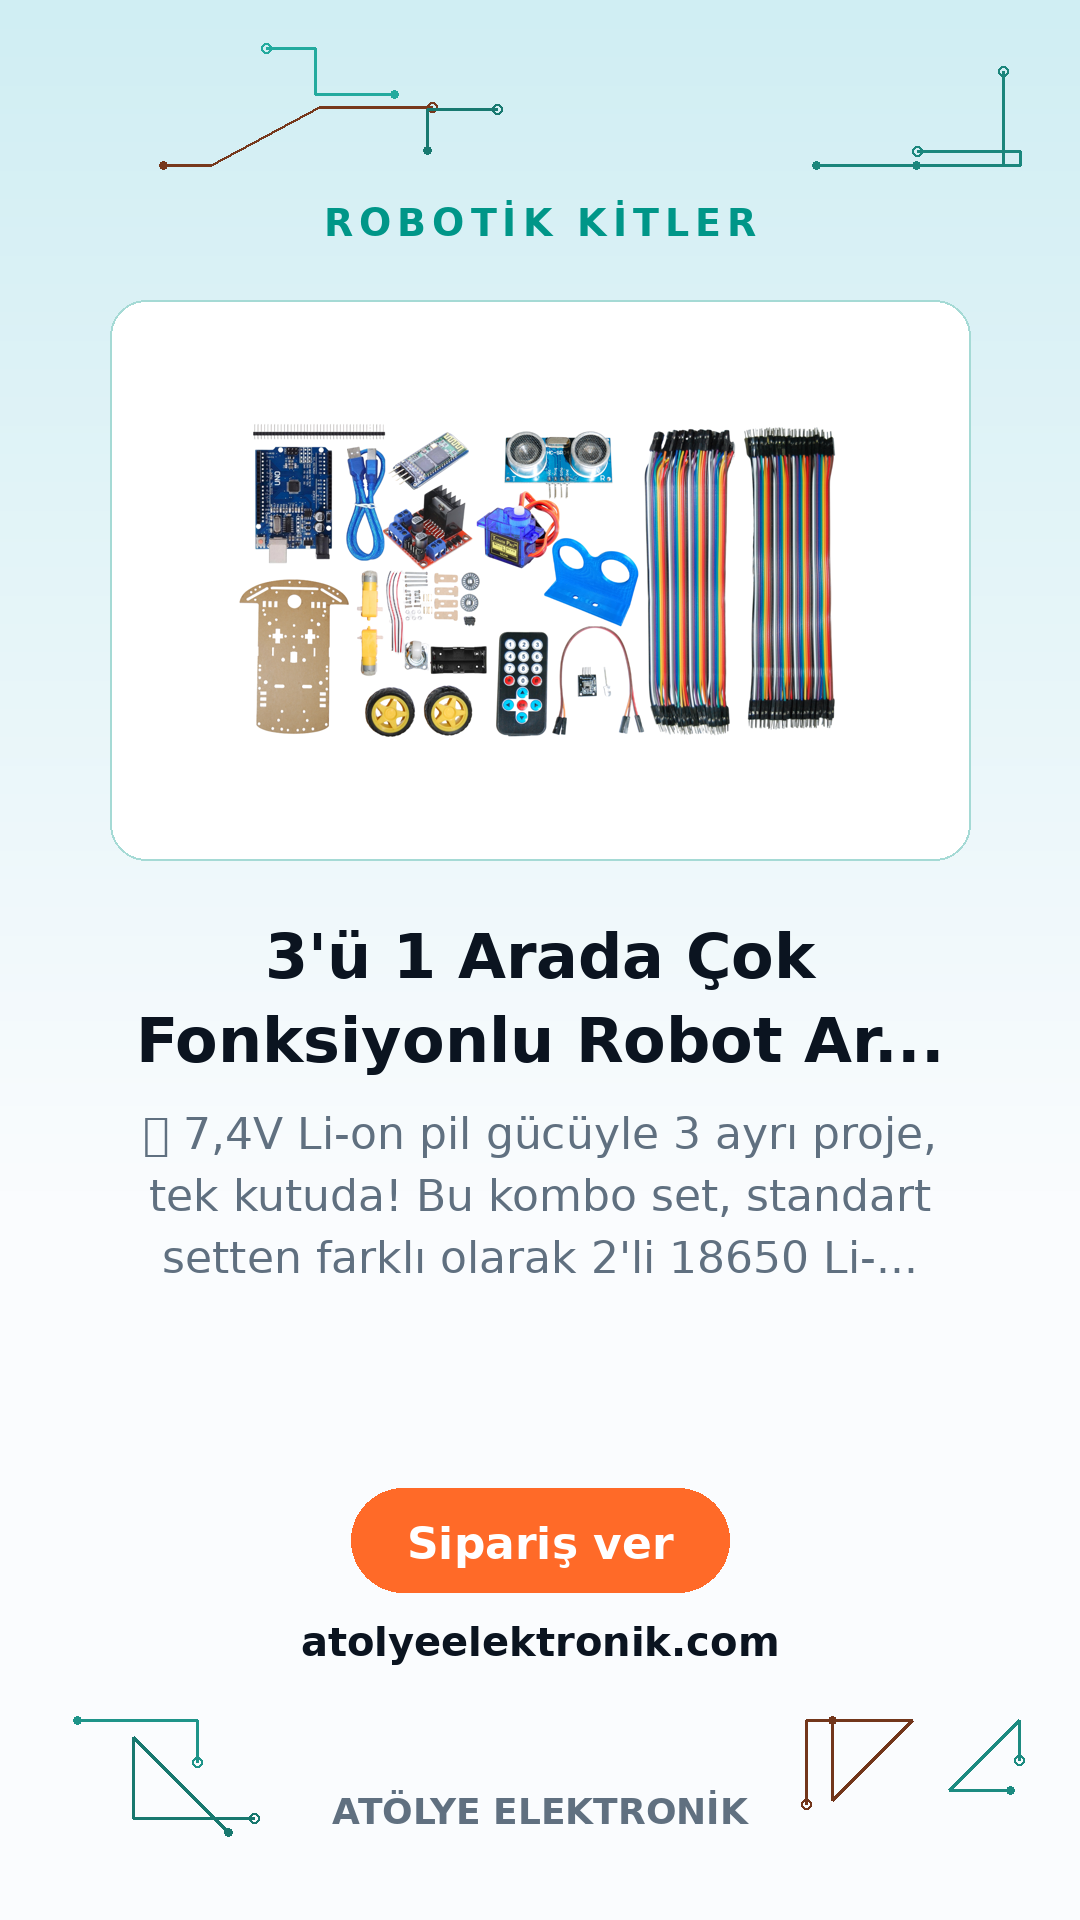
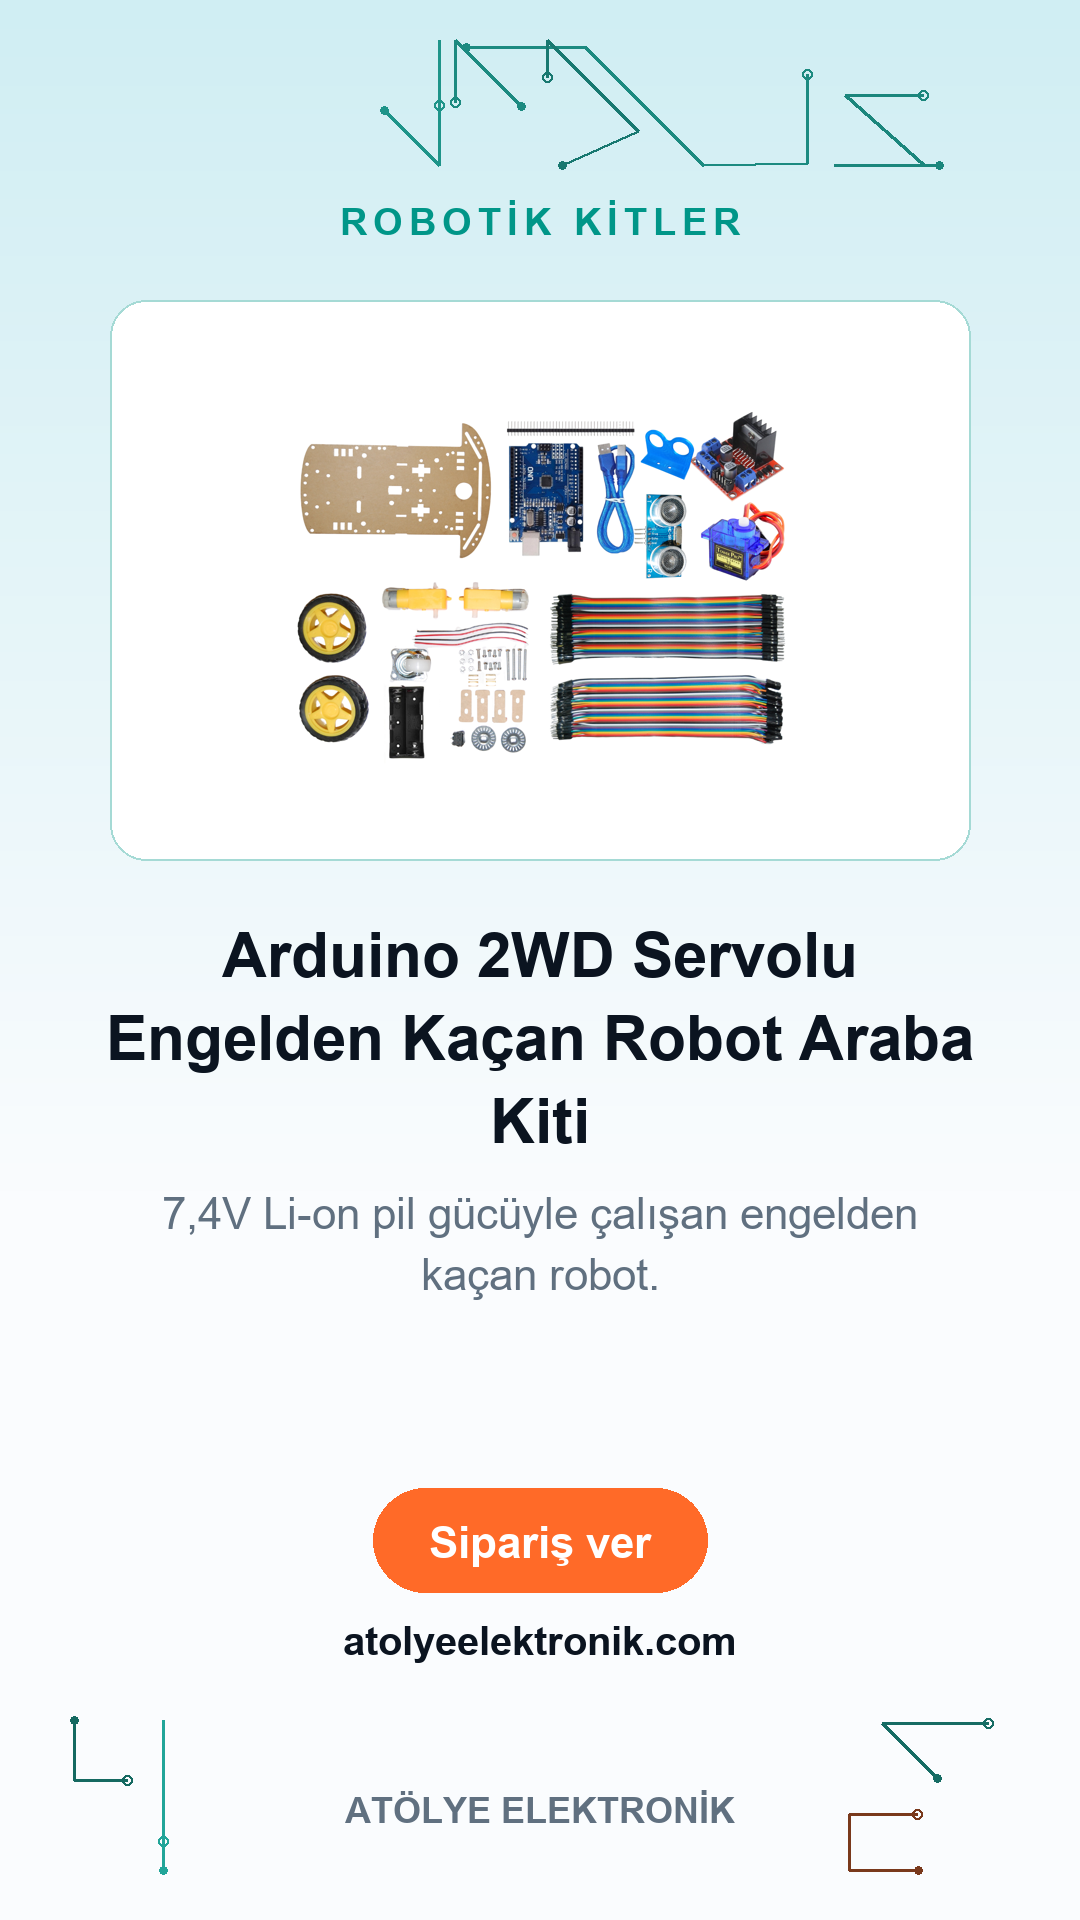
fix: hikaye baslik ve aciklamasi kesilmeden sigdiriliyor
Kes-at yerine punto dusurme: baslik 62->40, aciklama 44->36 arasi
otomatik kuculuyor; uzun urun adlari ' - '/'(' ayracindan sadelesiyor.
Yarim kalan urun adi ve '2li 18650 Li-...' gibi metinler bitti.

diff --git a/src/hikaye_uret.py b/src/hikaye_uret.py
@@ -102,19 +102,27 @@ def _foto_kart(img, d, url: str, y: int, yukseklik: int = 560) -> int:
     return y + yukseklik
 
 
-def _baslik(d, metin: str, y: int, maxsatir: int = 2) -> int:
-    f = _bold(62)
-    # 2 satira sigmayan basligi kesmek yerine " - " / "(" ayracinda kisalt;
-    # "Endustriyel ... Seti - Meslek" gibi yarim kalmis metin cikmasin.
-    if len(_sar(d, metin, f, W - 200, maxsatir=maxsatir + 1)) > maxsatir:
-        for ayrac in (" - ", " — ", " ("):
-            if ayrac in metin:
-                metin = metin.split(ayrac)[0].strip()
-                break
-    for s in _sar(d, metin, f, W - 200, maxsatir=maxsatir):
-        tw = d.textlength(s, font=f)
-        d.text(((W - tw) / 2, y), s, font=f, fill=KOYU)
-        y += 84
+def _baslik(d, metin: str, y: int, maxsatir: int = 3) -> int:
+    """Başlığı ASLA kesmez: sığana kadar puntoyu küçültür.
+
+    Kes-at yaklaşımı "...Robot Ar..." gibi yarım ürün adı bırakıyordu
+    (20.08 geri bildirimi). Uzun adlarda önce " - " / "(" ayracından
+    sadeleştirir, sonra 62'den 40'a kadar punto düşürür.
+    """
+    kisa = metin
+    for ayrac in (" - ", " — ", " ("):
+        if len(kisa) > 42 and ayrac in kisa:
+            kisa = kisa.split(ayrac)[0].strip()
+            break
+    for boyut in (62, 56, 50, 44, 40):
+        f = _bold(boyut)
+        satirlar = _sar(d, kisa, f, W - 180, maxsatir=maxsatir + 2)
+        if len(satirlar) <= maxsatir and not any(s.endswith("...") for s in satirlar):
+            break
+    for satir in satirlar[:maxsatir]:
+        tw = d.textlength(satir, font=f)
+        d.text(((W - tw) / 2, y), satir, font=f, fill=KOYU)
+        y += int(boyut * 1.35)
     return y
 
 
@@ -135,24 +143,30 @@ def _marka(d) -> None:
     d.text(((W - tw) / 2, H - 130), MARKA, font=f, fill=GRI)
 
 
-def _aciklama_hazirla(d, metin: str, f, genislik: int, maxsatir: int) -> list[str]:
-    """Açıklamayı emoji'siz ve TAM CÜMLELERLE maxsatir'a sığdırır.
+def _aciklama_hazirla(d, metin: str, genislik: int, maxsatir: int):
+    """Açıklamayı emoji'siz, TAM CÜMLE ve kesintisiz döndürür.
 
-    Kes-at yaklaşımı "2'li 18650 Li-..." gibi yarım metin bırakıyordu;
-    fontta karşılığı olmayan emojiler de kutu (tofu) çiziyordu (20.08).
+    Sığmıyorsa önce cümle atar, yetmezse puntoyu düşürür — "2'li 18650
+    Li-..." gibi yarım metin çıkmaz (20.08 geri bildirimi).
     """
     metin = "".join(ch for ch in metin if ord(ch) < 0x2500).strip()
     cumleler = [c.strip() for c in metin.replace("!", ".").split(".") if c.strip()]
-    secili = ""
-    for c in cumleler:
-        aday = (secili + " " + c).strip() + "."
-        if len(_sar(d, aday, f, genislik, maxsatir=maxsatir + 1)) > maxsatir:
-            break
-        secili = aday
-    if not secili and cumleler:
-        secili = _sar(d, cumleler[0] + ".", f, genislik, maxsatir=maxsatir)[-1]
-        return _sar(d, cumleler[0] + ".", f, genislik, maxsatir=maxsatir)
-    return _sar(d, secili, f, genislik, maxsatir=maxsatir)
+    if not cumleler:
+        return _normal(44), []
+    for boyut in (44, 40, 36):
+        f = _normal(boyut)
+        secili = ""
+        for c in cumleler:
+            aday = (secili + " " + c).strip() + "."
+            satirlar = _sar(d, aday, f, genislik, maxsatir=maxsatir + 2)
+            if len(satirlar) > maxsatir or any(x.endswith("...") for x in satirlar):
+                break
+            secili = aday
+        if secili:
+            return f, _sar(d, secili, f, genislik, maxsatir=maxsatir)
+    # tek cumle bile sigmadi: en kucuk puntoyla ilk cumleyi ver
+    f = _normal(36)
+    return f, _sar(d, cumleler[0] + ".", f, genislik, maxsatir=maxsatir)
 
 
 def hikaye_tanitim(urun: dict, cikti: pathlib.Path) -> None:
@@ -161,12 +175,12 @@ def hikaye_tanitim(urun: dict, cikti: pathlib.Path) -> None:
     _kategori(d, _etiket(urun))
     alt = _foto_kart(img, d, urun["images"][0]["src"], 300)
     y = _baslik(d, urun["title"], alt + 60)
-    f = _normal(44)
     metin = ozet(urun.get("body_html", ""))
-    for s in _aciklama_hazirla(d, metin, f, W - 260, maxsatir=3):
-        tw = d.textlength(s, font=f)
-        d.text(((W - tw) / 2, y + 20), s, font=f, fill=GRI)
-        y += 62
+    f, satirlar = _aciklama_hazirla(d, metin, W - 260, maxsatir=3)
+    for satir in satirlar:
+        tw = d.textlength(satir, font=f)
+        d.text(((W - tw) / 2, y + 20), satir, font=f, fill=GRI)
+        y += int(f.size * 1.4)
     _cta(d, H - 380)
     _marka(d)
     img.save(cikti)
